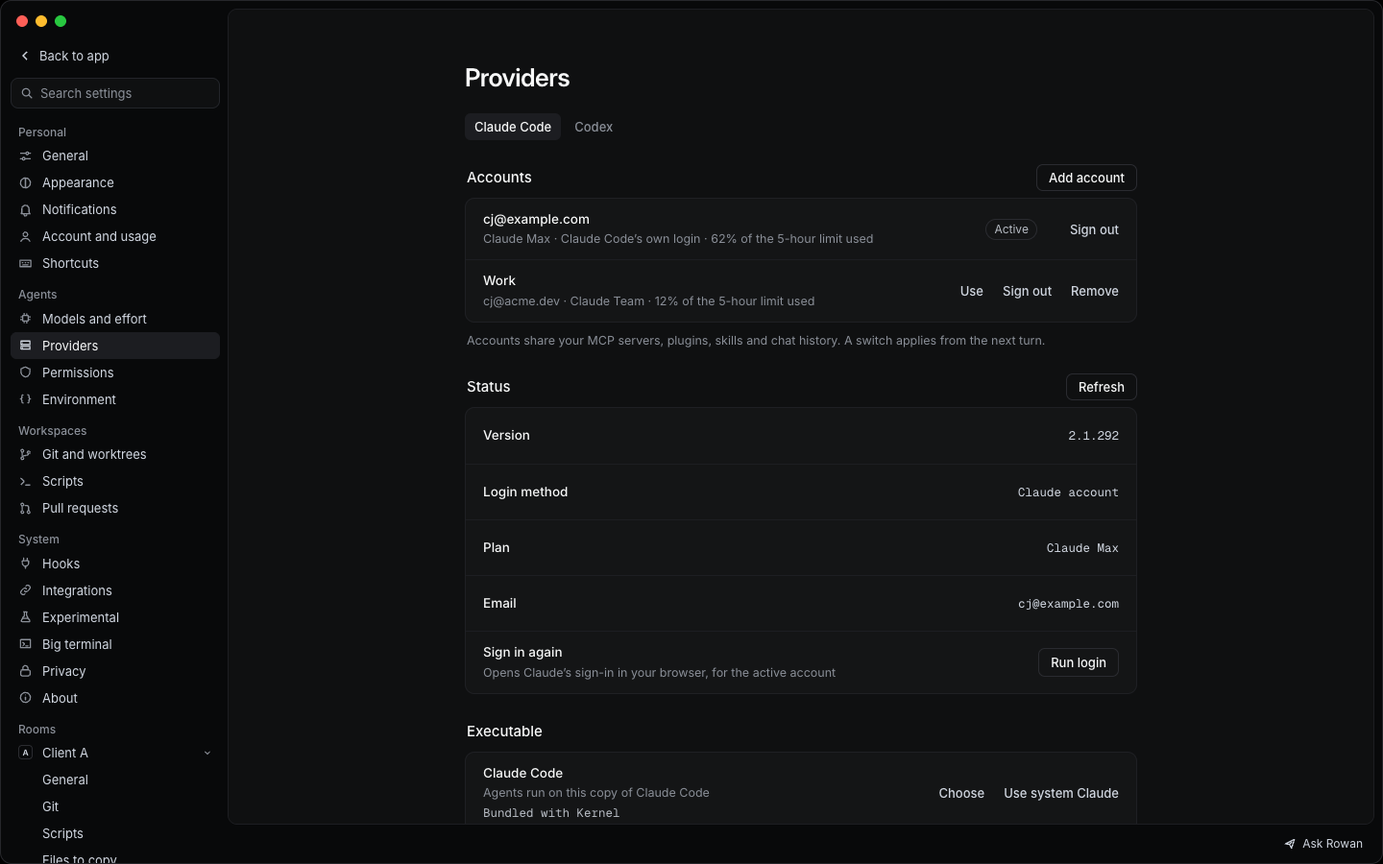
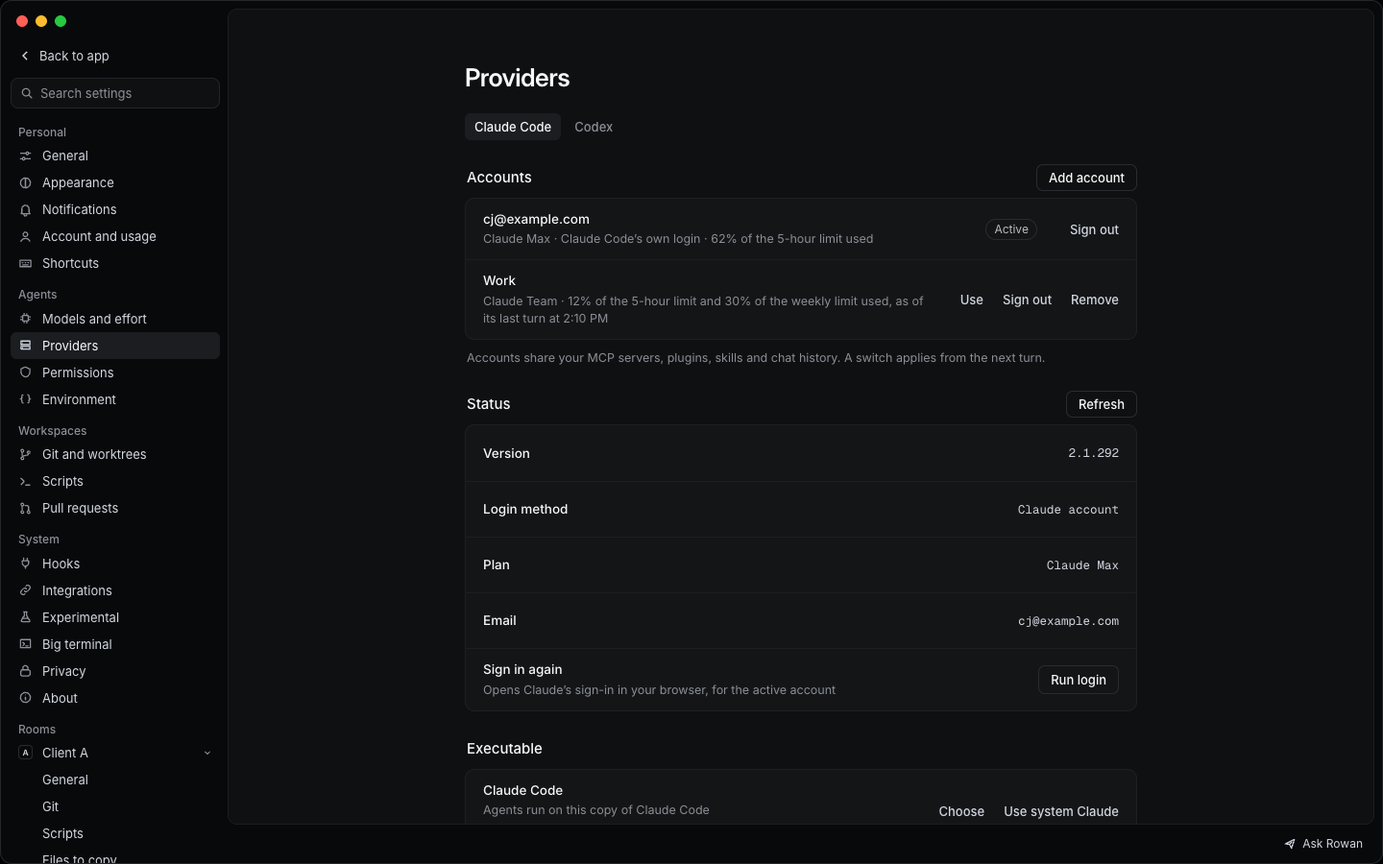
feat(settings): name and plan in Add account, and a token account's meters as of its last turn (KERNEL-406)

diff --git a/src/renderer/src/screens/settings/pages/AddAccount.tsx b/src/renderer/src/screens/settings/pages/AddAccount.tsx
@@ -1,61 +1,90 @@
 import { useEffect, useState } from 'react'
-import type { Provider } from '@shared/types'
+import { CLAUDE_PLANS, type ClaudePlan, type Provider } from '@shared/types'
 import { call, cleanError } from '../../../api'
 import { actions, useStore } from '../../../store'
-import { Button, Modal, useBusy } from '../../../ui'
+import { Button, Modal, Select, useBusy } from '../../../ui'
+
+type Plan = Exclude<ClaudePlan, 'unknown'>
 
 /**
- * Add account (KERNEL-406). Kernel opens the provider's sign-in in the browser and waits. Claude's `setup-token` may ask for
- * the code its page shows, and only then does the sheet show a field for it. Subscription logins only: no API key (D-018).
+ * Add account, or Sign in again for an added Claude account (`signIn`, KERNEL-406). Codex signs in with ChatGPT in the
+ * browser. Claude runs `claude setup-token`, which opens its sign-in in the browser and may ask for the code the page
+ * shows; only then does the sheet show a field for it. A Claude account needs a name and its plan, which its token can't
+ * tell. A failed sign-in says why and offers Try again. Subscription logins only: no API key and no pasted token (D-018).
  */
-export function AddAccount({ provider, onClose }: { provider: Provider; onClose: () => void }) {
+export function AddAccount({ provider, signIn, onClose }: { provider: Provider; signIn?: { label: string }; onClose: () => void }) {
   const step = useStore((s) => (s.accountAdd?.provider === provider ? s.accountAdd : null))
   const [label, setLabel] = useState('')
+  const [plan, setPlan] = useState<Plan | ''>('')
   const [code, setCode] = useState('')
   const [started, setStarted] = useState(false)
+  const [failed, setFailed] = useState<string | null>(null)
   const [busy, run] = useBusy<'start' | 'code'>()
-  const name = provider === 'codex' ? 'ChatGPT' : 'Claude'
+  const claude = provider === 'claude'
+  const name = claude ? 'Claude' : 'ChatGPT'
+  const ready = !!signIn || !claude || (!!label.trim() && !!plan)
   useEffect(() => () => actions.accounts.adding(null), [])
   const start = () => run('start', async () => {
+    if (!ready) return
+    actions.accounts.adding(null)
+    setFailed(null)
     setStarted(true)
     try {
-      await call('accounts.add', { provider, label: label.trim() || undefined })
+      if (signIn) await call('providers.signIn', { provider })
+      else await call('accounts.add', { provider, label: label.trim() || undefined, ...(claude && plan ? { plan } : {}) })
       actions.accounts.set(await call('accounts.list', undefined))
       onClose()
     } catch (e) {
       setStarted(false)
-      if (!/canceled/i.test(String(e))) actions.ui.toast({ title: 'Could not add the account', sub: cleanError(e) })
+      if (!/canceled/i.test(String(e))) setFailed(cleanError(e))
     }
   })
   const close = () => { if (started) void call('accounts.cancelAdd', { provider }).catch(() => undefined); onClose() }
   const sendCode = () => run('code', async () => {
     try { await call('accounts.code', { provider, code: code.trim() }); setCode('') } catch (e) { actions.ui.toast({ title: 'Could not send the code', sub: cleanError(e) }) }
   })
+  const title = signIn ? `Sign in to ${signIn.label}` : `Add ${claude ? 'a Claude' : 'a Codex'} account`
   return (
-    <Modal title={`Add ${provider === 'codex' ? 'a Codex' : 'a Claude'} account`} onClose={close} width={480} top={200} footer={
+    <Modal title={title} onClose={close} width={480} top={200} footer={
       <>
         <span className="grow" />
         <Button variant="ghost" size="lg" onClick={close}>Cancel</Button>
-        {!started && <Button variant="primary" size="lg" busy={busy === 'start'} busyLabel="Opening" onClick={() => void start()}>Sign in with {name}</Button>}
+        {!started && <Button variant="primary" size="lg" busy={busy === 'start'} busyLabel="Opening" disabled={!ready} onClick={() => void start()}>{failed ? 'Try again' : `Sign in with ${name}`}</Button>}
         {started && step?.step === 'code' && <Button variant="primary" size="lg" busy={busy === 'code'} busyLabel="Sending" disabled={!code.trim()} onClick={() => void sendCode()}>Send code</Button>}
       </>
     }>
       <div className="modal-body set-form">
-        {!started && (
+        {!started && !signIn && (
           <>
-            <p className="set-help">Kernel opens {name}&rsquo;s sign-in in your browser. The account shares your MCP servers, plugins, skills and chats, and you switch to it in Settings or the account menu.</p>
+            <p className="set-help">
+              {claude ? 'Kernel runs claude setup-token, which opens Claude’s sign-in in your browser.' : 'Kernel opens ChatGPT’s sign-in in your browser.'}
+              {' '}The account shares your MCP servers, plugins, skills and chats, and you switch to it in Settings or the account menu.
+            </p>
             <div className="set-field">
               <label htmlFor="acct-label">Name</label>
               <input id="acct-label" className="input" autoComplete="off" spellCheck={false} placeholder="Work" value={label} onChange={(e) => setLabel(e.target.value)} onKeyDown={(e) => e.key === 'Enter' && void start()} />
             </div>
+            {claude && (
+              <div className="set-field">
+                <label htmlFor="acct-plan">Plan</label>
+                <Select id="acct-plan" label="Plan" value={plan} onChange={(e) => setPlan(e.target.value as Plan | '')} options={[{ value: '', label: 'Choose a plan' }, ...CLAUDE_PLANS.map((p) => ({ value: p.id, label: p.label }))]} />
+                <p className="set-help">Kernel can&rsquo;t read the plan from this kind of sign-in, so the defaults that depend on it use this one.</p>
+              </div>
+            )}
           </>
         )}
-        {started && step?.step !== 'code' && (
+        {!started && signIn && !failed && <p className="set-help">Kernel runs claude setup-token again, which opens Claude&rsquo;s sign-in in your browser. The new sign-in replaces the old one.</p>}
+        {!started && failed && (
+          <div className="set-field">
+            <p className="set-error" role="alert">The sign-in didn&rsquo;t finish. {failed}</p>
+          </div>
+        )}
+        {started && (
           <p className="set-help" role="status">Finish signing in in your browser.{step?.url && <> <button type="button" className="set-link" onClick={() => void call('system.openExternal', { url: step.url! })}>Open the page again</button></>}</p>
         )}
         {started && step?.step === 'code' && (
           <div className="set-field">
-            <label htmlFor="acct-code">Code from the sign-in page</label>
+            <label htmlFor="acct-code">Code, if the sign-in page shows one</label>
             <input id="acct-code" className="input" autoComplete="off" spellCheck={false} value={code} onChange={(e) => setCode(e.target.value)} onKeyDown={(e) => e.key === 'Enter' && code.trim() && void sendCode()} />
           </div>
         )}

diff --git a/src/renderer/src/screens/settings/pages/Providers.tsx b/src/renderer/src/screens/settings/pages/Providers.tsx
@@ -1,6 +1,7 @@
 import { useEffect, useState } from 'react'
 import { type AccountProfile, type AppSettings, type CodexPersonality, type Provider, type ProviderStatus, type RateLimit } from '@shared/types'
 import { limitProvider } from '@shared/providers'
+import { clock } from '@shared/usage'
 import { call, cleanError } from '../../../api'
 import { actions, go, useStore } from '../../../store'
 import { Button, SegmentedControl, Tabs, useBusy } from '../../../ui'
@@ -18,16 +19,29 @@ const PERSONALITIES: { value: CodexPersonality; label: string }[] = [{ value: 'p
 /** A path under the home folder as Terminal shows it: `~/.codex/config.toml`. */
 export const tilde = (path: string) => path.replace(/^\/Users\/[^/]+/, '~')
 
-/** The account's 5-hour window, when Kernel has heard of it: "62% of the 5-hour limit used". */
-export function accountUsage(a: AccountProfile, usage: RateLimit[]): string | undefined {
-  const l = usage.find((u) => u.type === 'five_hour' && limitProvider(u) === a.provider && (u.accountId ?? 'cli') === a.id)
-  return l?.utilization !== undefined ? `${Math.round(l.utilization * 100)}% of the 5-hour limit used` : undefined
+/** "3:40 PM" today, else "Oct 9". */
+const when = (ms: number, now: number) => (new Date(ms).toDateString() === new Date(now).toDateString() ? `at ${clock(ms)}` : `on ${new Date(ms).toLocaleDateString('en-US', { month: 'short', day: 'numeric' })}`)
+
+/**
+ * The account's usage, when Kernel has heard of it: "62% of the 5-hour limit used". An account whose usage comes only from
+ * its turns (a Claude token) gives both windows and when its last turn read them, since nothing reads them between turns.
+ */
+export function accountUsage(a: AccountProfile, usage: RateLimit[], now = Date.now()): string | undefined {
+  const mine = usage.filter((u) => limitProvider(u) === a.provider && (u.accountId ?? 'cli') === a.id)
+  const pct = (type: RateLimit['type']) => { const u = mine.find((l) => l.type === type)?.utilization; return u === undefined ? undefined : Math.round(u * 100) }
+  const hour = pct('five_hour')
+  if (!a.usageFromTurns) return hour !== undefined ? `${hour}% of the 5-hour limit used` : undefined
+  const week = pct('seven_day')
+  const read = Math.max(0, ...mine.filter((l) => l.type === 'five_hour' || l.type === 'seven_day').map((l) => l.readAt ?? 0))
+  if (hour === undefined && week === undefined) return 'Usage shows after its first turn'
+  const used = [hour !== undefined ? `${hour}% of the 5-hour limit` : undefined, week !== undefined ? `${week}% of the weekly limit` : undefined].filter(Boolean).join(' and ')
+  return `${used} used${read ? `, as of its last turn ${when(read, now)}` : ''}`
 }
 
 /** What an account row says under its name: the email when the name isn't it, the plan, the CLI login, and its usage. */
-export function accountLine(a: AccountProfile, usage: RateLimit[]): string {
+export function accountLine(a: AccountProfile, usage: RateLimit[], now = Date.now()): string {
   if (!a.signedIn) return 'Not signed in'
-  return [a.email && a.email !== a.label ? a.email : undefined, a.plan, a.cli ? `${NAME[a.provider]}’s own login` : undefined, accountUsage(a, usage)].filter(Boolean).join(' · ')
+  return [a.email && a.email !== a.label ? a.email : undefined, a.plan, a.cli ? `${NAME[a.provider]}’s own login` : undefined, accountUsage(a, usage, now)].filter(Boolean).join(' · ')
 }
 
 /** The page. The route's `tab` picks Claude Code or Codex. */
@@ -49,6 +63,9 @@ function ProviderTab({ provider, s }: { provider: Provider; s: AppSettings }) {
   const usage = useStore((st) => st.usage)
   const [status, setStatus] = useState<ProviderStatus | null>(null)
   const [adding, setAdding] = useState(false)
+  // An added Claude account signs in again with a new token, through the same sheet, which shows the code field if asked.
+  const [renewing, setRenewing] = useState<string | null>(null)
+  const addedClaude = provider === 'claude' ? accounts.find((a) => a.active && !a.cli) : undefined
   const [busy, run] = useBusy<string>()
   const read = () => call('providers.status', { provider }).then(setStatus)
   useEffect(() => { void read().catch(() => undefined) }, [provider])
@@ -56,7 +73,7 @@ function ProviderTab({ provider, s }: { provider: Provider; s: AppSettings }) {
     try { await fn() } catch (e) { actions.ui.toast({ title, sub: cleanError(e) }) }
   })
   const accountsCall = (key: string, title: string, fn: () => Promise<AccountProfile[]>) => act(key, title, async () => { actions.accounts.set(await fn()); await read() })
-  const signIn = () => act('signin', 'Could not sign in', async () => { setStatus(await call('providers.signIn', { provider })); actions.accounts.set(await call('accounts.list', undefined)) })
+  const signIn = () => addedClaude ? setRenewing(addedClaude.label) : act('signin', 'Could not sign in', async () => { setStatus(await call('providers.signIn', { provider })); actions.accounts.set(await call('accounts.list', undefined)) })
   const binary = s.providers[provider]
   const setPath = (key: string, o: { path?: string; useSystem?: boolean }) => act(key, 'Could not change the executable', async () => {
     setStatus(await call('providers.setPath', { provider, ...o }))
@@ -73,7 +90,7 @@ function ProviderTab({ provider, s }: { provider: Provider; s: AppSettings }) {
     <>
       <Section
         title="Accounts"
-        action={<Button disabled={busy !== null || adding} onClick={() => setAdding(true)}>Add account</Button>}
+        action={<Button disabled={busy !== null || adding || !!renewing} onClick={() => setAdding(true)}>Add account</Button>}
         note={accounts.some((a) => a.signedIn) ? 'Accounts share your MCP servers, plugins, skills and chat history. A switch applies from the next turn.' : provider === 'codex' ? 'Sign in with your ChatGPT plan to run agents on Codex.' : 'Sign in with your Claude plan to run agents on Claude Code.'}
       >
         {accounts.map((a) => (
@@ -119,6 +136,7 @@ function ProviderTab({ provider, s }: { provider: Provider; s: AppSettings }) {
         </Row>
       </Section>
       {adding && <AddAccount provider={provider} onClose={() => { setAdding(false); void read().catch(() => undefined) }} />}
+      {renewing && <AddAccount provider={provider} signIn={{ label: renewing }} onClose={() => { setRenewing(null); void read().catch(() => undefined) }} />}
     </>
   )
 }

diff --git a/fixtures/platform.ts b/fixtures/platform.ts
@@ -39,6 +39,8 @@ const hookEvents: HookStatus['events'] = [
 const secs = (ms: number) => Math.round(ms / 1000)
 /** The next h:m from now, so a reset is always ahead and within a day ("Resets at 3:40 PM"). */
 const next = (h: number, m: number) => { const d = new Date(); d.setHours(h, m, 0, 0); if (d.getTime() <= Date.now()) d.setDate(d.getDate() + 1); return d.getTime() }
+/** Today at `h`:`m`, past or not: when a token account's last turn read its usage. */
+const todayAt = (h: number, m: number) => { const d = new Date(); d.setHours(h, m, 0, 0); return d.getTime() }
 const nextMonday = () => { const d = new Date(); d.setDate(d.getDate() + ((8 - d.getDay()) % 7 || 7)); d.setHours(9, 0, 0, 0); return d.getTime() }
 /** The invoice table chat with a change. */
 const withChat = (f: Fixture, change: Partial<Fixture['chats'][number]>) => f.chats.map((c) => (c.id === ids.tableChat ? { ...c, ...change } : c))
@@ -64,20 +66,21 @@ const codexModels: ProviderModel[] = [
 ]
 const claudeAccounts: AccountProfile[] = [
   { id: 'cli', provider: 'claude', label: 'cj@example.com', email: 'cj@example.com', plan: 'Claude Max', cli: true, active: true, signedIn: true },
-  { id: 'work', provider: 'claude', label: 'Work', email: 'cj@acme.dev', plan: 'Claude Team', cli: false, active: false, signedIn: true }
+  { id: 'work', provider: 'claude', label: 'Work', plan: 'Claude Team', cli: false, active: false, signedIn: true, usageFromTurns: true }
 ]
 const codexAccounts: AccountProfile[] = [{ id: 'cli', provider: 'codex', label: 'cj@example.com', email: 'cj@example.com', plan: 'ChatGPT Plus', cli: true, active: true, signedIn: true }]
 const providerStatus: Fixture['providerStatus'] = {
   claude: { provider: 'claude', source: 'bundled', version: '2.1.292', signedIn: true, loginMethod: 'Claude account', plan: 'Claude Max', email: 'cj@example.com', configFile: '/Users/you/.claude/settings.json' },
   codex: { provider: 'codex', source: 'bundled', version: '0.153.4', signedIn: true, loginMethod: 'ChatGPT', plan: 'ChatGPT Plus', email: 'cj@example.com', configFile: '/Users/you/.codex/config.toml' }
 }
-/** Settings, Providers on one tab, with each account's 5-hour window. */
+/** Settings, Providers on one tab, with each account's 5-hour window, and the weekly one of Work, a token account. */
 const providersPage = (tab: Provider, extra: Partial<Fixture> = {}) => scene(() => ({
   accounts: [...claudeAccounts, ...codexAccounts],
   providerStatus,
   usage: [
     { type: 'five_hour', status: 'allowed', utilization: 0.62, resetsAt: secs(next(15, 40)) },
-    { type: 'five_hour', status: 'allowed', utilization: 0.12, resetsAt: secs(next(15, 40)), accountId: 'work' },
+    { type: 'five_hour', status: 'allowed', utilization: 0.12, resetsAt: secs(next(15, 40)), accountId: 'work', readAt: todayAt(14, 10) },
+    { type: 'seven_day', status: 'allowed', utilization: 0.3, resetsAt: secs(nextMonday()), accountId: 'work', readAt: todayAt(14, 10) },
     { type: 'five_hour', status: 'allowed', utilization: 0.07, resetsAt: secs(next(15, 40)), provider: 'codex' }
   ],
   ...extra,

diff --git a/design/canvas/project/Settings.dc.html b/design/canvas/project/Settings.dc.html
@@ -298,7 +298,7 @@ class Component extends DCLogic {
       providers: { title: 'Providers', tabs: providerTabs(0), sections: [
         { title: 'Accounts', action: 'Add account', note: 'Accounts share your MCP servers, plugins, skills and chat history. A switch applies from the next turn.', rows: [
           account('cj@example.com', 'Claude Max \u00b7 Claude Code\u2019s own login \u00b7 62% of the 5-hour limit used', true, ['Sign out']),
-          account('Work', 'cj@acme.dev \u00b7 Claude Team \u00b7 12% of the 5-hour limit used', false, ['Use', 'Sign out', 'Remove'])
+          account('Work', 'Claude Team \u00b7 12% of the 5-hour limit and 30% of the weekly limit used, as of its last turn at 2:10 PM', false, ['Use', 'Sign out', 'Remove'])
         ] },
         { title: 'Status', action: 'Refresh', rows: [val('Version', '2.1.292'), val('Login method', 'Claude account'), val('Plan', 'Claude Max'), val('Email', 'cj@example.com'), btn('Sign in again', 'Run login', 'Opens Claude\u2019s sign-in in your browser, for the active account')] },
         { title: 'Executable', rows: [path('Claude Code', 'Bundled with Kernel', 'Agents run on this copy of Claude Code', ['Choose', 'Use system Claude']), Object.assign(btn('CLI config file', 'Open'), { mono: '~/.claude/settings.json' })] }

diff --git a/design/canvas/project/SettingsAbout.dc.html b/design/canvas/project/SettingsAbout.dc.html
@@ -298,7 +298,7 @@ class Component extends DCLogic {
       providers: { title: 'Providers', tabs: providerTabs(0), sections: [
         { title: 'Accounts', action: 'Add account', note: 'Accounts share your MCP servers, plugins, skills and chat history. A switch applies from the next turn.', rows: [
           account('cj@example.com', 'Claude Max \u00b7 Claude Code\u2019s own login \u00b7 62% of the 5-hour limit used', true, ['Sign out']),
-          account('Work', 'cj@acme.dev \u00b7 Claude Team \u00b7 12% of the 5-hour limit used', false, ['Use', 'Sign out', 'Remove'])
+          account('Work', 'Claude Team \u00b7 12% of the 5-hour limit and 30% of the weekly limit used, as of its last turn at 2:10 PM', false, ['Use', 'Sign out', 'Remove'])
         ] },
         { title: 'Status', action: 'Refresh', rows: [val('Version', '2.1.292'), val('Login method', 'Claude account'), val('Plan', 'Claude Max'), val('Email', 'cj@example.com'), btn('Sign in again', 'Run login', 'Opens Claude\u2019s sign-in in your browser, for the active account')] },
         { title: 'Executable', rows: [path('Claude Code', 'Bundled with Kernel', 'Agents run on this copy of Claude Code', ['Choose', 'Use system Claude']), Object.assign(btn('CLI config file', 'Open'), { mono: '~/.claude/settings.json' })] }

diff --git a/design/canvas/project/SettingsAccount.dc.html b/design/canvas/project/SettingsAccount.dc.html
@@ -298,7 +298,7 @@ class Component extends DCLogic {
       providers: { title: 'Providers', tabs: providerTabs(0), sections: [
         { title: 'Accounts', action: 'Add account', note: 'Accounts share your MCP servers, plugins, skills and chat history. A switch applies from the next turn.', rows: [
           account('cj@example.com', 'Claude Max \u00b7 Claude Code\u2019s own login \u00b7 62% of the 5-hour limit used', true, ['Sign out']),
-          account('Work', 'cj@acme.dev \u00b7 Claude Team \u00b7 12% of the 5-hour limit used', false, ['Use', 'Sign out', 'Remove'])
+          account('Work', 'Claude Team \u00b7 12% of the 5-hour limit and 30% of the weekly limit used, as of its last turn at 2:10 PM', false, ['Use', 'Sign out', 'Remove'])
         ] },
         { title: 'Status', action: 'Refresh', rows: [val('Version', '2.1.292'), val('Login method', 'Claude account'), val('Plan', 'Claude Max'), val('Email', 'cj@example.com'), btn('Sign in again', 'Run login', 'Opens Claude\u2019s sign-in in your browser, for the active account')] },
         { title: 'Executable', rows: [path('Claude Code', 'Bundled with Kernel', 'Agents run on this copy of Claude Code', ['Choose', 'Use system Claude']), Object.assign(btn('CLI config file', 'Open'), { mono: '~/.claude/settings.json' })] }

diff --git a/design/canvas/project/SettingsAppearance.dc.html b/design/canvas/project/SettingsAppearance.dc.html
@@ -298,7 +298,7 @@ class Component extends DCLogic {
       providers: { title: 'Providers', tabs: providerTabs(0), sections: [
         { title: 'Accounts', action: 'Add account', note: 'Accounts share your MCP servers, plugins, skills and chat history. A switch applies from the next turn.', rows: [
           account('cj@example.com', 'Claude Max \u00b7 Claude Code\u2019s own login \u00b7 62% of the 5-hour limit used', true, ['Sign out']),
-          account('Work', 'cj@acme.dev \u00b7 Claude Team \u00b7 12% of the 5-hour limit used', false, ['Use', 'Sign out', 'Remove'])
+          account('Work', 'Claude Team \u00b7 12% of the 5-hour limit and 30% of the weekly limit used, as of its last turn at 2:10 PM', false, ['Use', 'Sign out', 'Remove'])
         ] },
         { title: 'Status', action: 'Refresh', rows: [val('Version', '2.1.292'), val('Login method', 'Claude account'), val('Plan', 'Claude Max'), val('Email', 'cj@example.com'), btn('Sign in again', 'Run login', 'Opens Claude\u2019s sign-in in your browser, for the active account')] },
         { title: 'Executable', rows: [path('Claude Code', 'Bundled with Kernel', 'Agents run on this copy of Claude Code', ['Choose', 'Use system Claude']), Object.assign(btn('CLI config file', 'Open'), { mono: '~/.claude/settings.json' })] }

diff --git a/design/canvas/project/SettingsBigTerminal.dc.html b/design/canvas/project/SettingsBigTerminal.dc.html
@@ -298,7 +298,7 @@ class Component extends DCLogic {
       providers: { title: 'Providers', tabs: providerTabs(0), sections: [
         { title: 'Accounts', action: 'Add account', note: 'Accounts share your MCP servers, plugins, skills and chat history. A switch applies from the next turn.', rows: [
           account('cj@example.com', 'Claude Max \u00b7 Claude Code\u2019s own login \u00b7 62% of the 5-hour limit used', true, ['Sign out']),
-          account('Work', 'cj@acme.dev \u00b7 Claude Team \u00b7 12% of the 5-hour limit used', false, ['Use', 'Sign out', 'Remove'])
+          account('Work', 'Claude Team \u00b7 12% of the 5-hour limit and 30% of the weekly limit used, as of its last turn at 2:10 PM', false, ['Use', 'Sign out', 'Remove'])
         ] },
         { title: 'Status', action: 'Refresh', rows: [val('Version', '2.1.292'), val('Login method', 'Claude account'), val('Plan', 'Claude Max'), val('Email', 'cj@example.com'), btn('Sign in again', 'Run login', 'Opens Claude\u2019s sign-in in your browser, for the active account')] },
         { title: 'Executable', rows: [path('Claude Code', 'Bundled with Kernel', 'Agents run on this copy of Claude Code', ['Choose', 'Use system Claude']), Object.assign(btn('CLI config file', 'Open'), { mono: '~/.claude/settings.json' })] }

diff --git a/design/canvas/project/SettingsEnvironment.dc.html b/design/canvas/project/SettingsEnvironment.dc.html
@@ -298,7 +298,7 @@ class Component extends DCLogic {
       providers: { title: 'Providers', tabs: providerTabs(0), sections: [
         { title: 'Accounts', action: 'Add account', note: 'Accounts share your MCP servers, plugins, skills and chat history. A switch applies from the next turn.', rows: [
           account('cj@example.com', 'Claude Max \u00b7 Claude Code\u2019s own login \u00b7 62% of the 5-hour limit used', true, ['Sign out']),
-          account('Work', 'cj@acme.dev \u00b7 Claude Team \u00b7 12% of the 5-hour limit used', false, ['Use', 'Sign out', 'Remove'])
+          account('Work', 'Claude Team \u00b7 12% of the 5-hour limit and 30% of the weekly limit used, as of its last turn at 2:10 PM', false, ['Use', 'Sign out', 'Remove'])
         ] },
         { title: 'Status', action: 'Refresh', rows: [val('Version', '2.1.292'), val('Login method', 'Claude account'), val('Plan', 'Claude Max'), val('Email', 'cj@example.com'), btn('Sign in again', 'Run login', 'Opens Claude\u2019s sign-in in your browser, for the active account')] },
         { title: 'Executable', rows: [path('Claude Code', 'Bundled with Kernel', 'Agents run on this copy of Claude Code', ['Choose', 'Use system Claude']), Object.assign(btn('CLI config file', 'Open'), { mono: '~/.claude/settings.json' })] }

diff --git a/design/canvas/project/SettingsEnvironmentAdd.dc.html b/design/canvas/project/SettingsEnvironmentAdd.dc.html
@@ -298,7 +298,7 @@ class Component extends DCLogic {
       providers: { title: 'Providers', tabs: providerTabs(0), sections: [
         { title: 'Accounts', action: 'Add account', note: 'Accounts share your MCP servers, plugins, skills and chat history. A switch applies from the next turn.', rows: [
           account('cj@example.com', 'Claude Max \u00b7 Claude Code\u2019s own login \u00b7 62% of the 5-hour limit used', true, ['Sign out']),
-          account('Work', 'cj@acme.dev \u00b7 Claude Team \u00b7 12% of the 5-hour limit used', false, ['Use', 'Sign out', 'Remove'])
+          account('Work', 'Claude Team \u00b7 12% of the 5-hour limit and 30% of the weekly limit used, as of its last turn at 2:10 PM', false, ['Use', 'Sign out', 'Remove'])
         ] },
         { title: 'Status', action: 'Refresh', rows: [val('Version', '2.1.292'), val('Login method', 'Claude account'), val('Plan', 'Claude Max'), val('Email', 'cj@example.com'), btn('Sign in again', 'Run login', 'Opens Claude\u2019s sign-in in your browser, for the active account')] },
         { title: 'Executable', rows: [path('Claude Code', 'Bundled with Kernel', 'Agents run on this copy of Claude Code', ['Choose', 'Use system Claude']), Object.assign(btn('CLI config file', 'Open'), { mono: '~/.claude/settings.json' })] }

diff --git a/design/canvas/project/SettingsExperimental.dc.html b/design/canvas/project/SettingsExperimental.dc.html
@@ -298,7 +298,7 @@ class Component extends DCLogic {
       providers: { title: 'Providers', tabs: providerTabs(0), sections: [
         { title: 'Accounts', action: 'Add account', note: 'Accounts share your MCP servers, plugins, skills and chat history. A switch applies from the next turn.', rows: [
           account('cj@example.com', 'Claude Max \u00b7 Claude Code\u2019s own login \u00b7 62% of the 5-hour limit used', true, ['Sign out']),
-          account('Work', 'cj@acme.dev \u00b7 Claude Team \u00b7 12% of the 5-hour limit used', false, ['Use', 'Sign out', 'Remove'])
+          account('Work', 'Claude Team \u00b7 12% of the 5-hour limit and 30% of the weekly limit used, as of its last turn at 2:10 PM', false, ['Use', 'Sign out', 'Remove'])
         ] },
         { title: 'Status', action: 'Refresh', rows: [val('Version', '2.1.292'), val('Login method', 'Claude account'), val('Plan', 'Claude Max'), val('Email', 'cj@example.com'), btn('Sign in again', 'Run login', 'Opens Claude\u2019s sign-in in your browser, for the active account')] },
         { title: 'Executable', rows: [path('Claude Code', 'Bundled with Kernel', 'Agents run on this copy of Claude Code', ['Choose', 'Use system Claude']), Object.assign(btn('CLI config file', 'Open'), { mono: '~/.claude/settings.json' })] }

diff --git a/design/canvas/project/SettingsFiles.dc.html b/design/canvas/project/SettingsFiles.dc.html
@@ -298,7 +298,7 @@ class Component extends DCLogic {
       providers: { title: 'Providers', tabs: providerTabs(0), sections: [
         { title: 'Accounts', action: 'Add account', note: 'Accounts share your MCP servers, plugins, skills and chat history. A switch applies from the next turn.', rows: [
           account('cj@example.com', 'Claude Max \u00b7 Claude Code\u2019s own login \u00b7 62% of the 5-hour limit used', true, ['Sign out']),
-          account('Work', 'cj@acme.dev \u00b7 Claude Team \u00b7 12% of the 5-hour limit used', false, ['Use', 'Sign out', 'Remove'])
+          account('Work', 'Claude Team \u00b7 12% of the 5-hour limit and 30% of the weekly limit used, as of its last turn at 2:10 PM', false, ['Use', 'Sign out', 'Remove'])
         ] },
         { title: 'Status', action: 'Refresh', rows: [val('Version', '2.1.292'), val('Login method', 'Claude account'), val('Plan', 'Claude Max'), val('Email', 'cj@example.com'), btn('Sign in again', 'Run login', 'Opens Claude\u2019s sign-in in your browser, for the active account')] },
         { title: 'Executable', rows: [path('Claude Code', 'Bundled with Kernel', 'Agents run on this copy of Claude Code', ['Choose', 'Use system Claude']), Object.assign(btn('CLI config file', 'Open'), { mono: '~/.claude/settings.json' })] }
